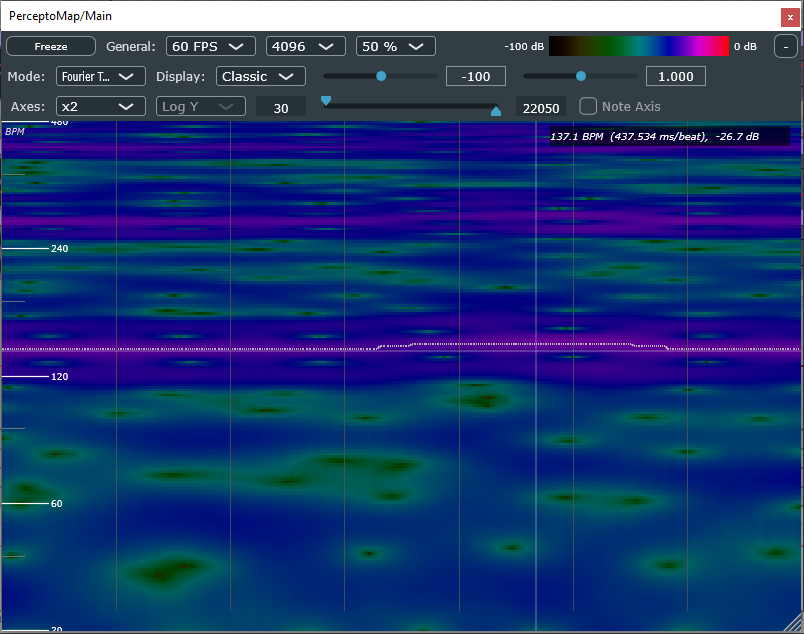
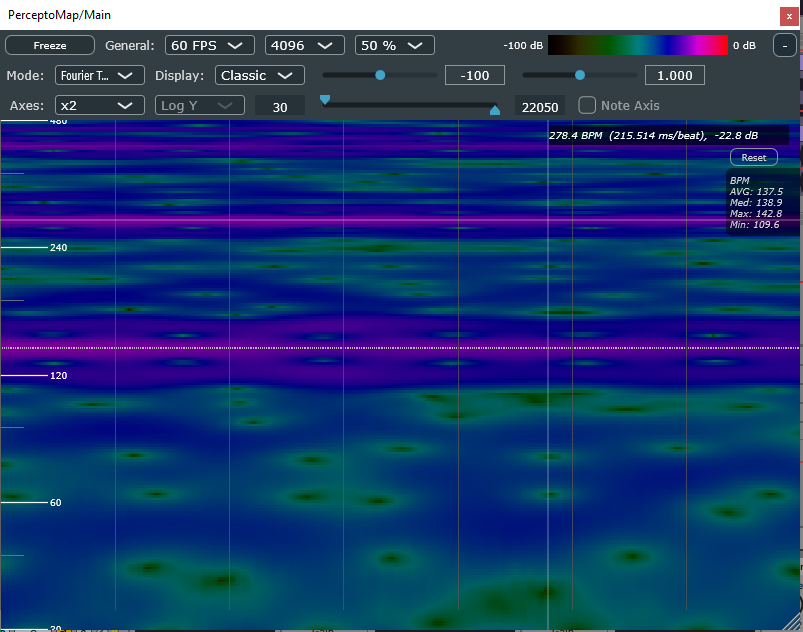
v0.11
1. Add BPM tempo statistics (average/median/max/min)

diff --git a/Source/SpectrogramComponent.cpp b/Source/SpectrogramComponent.cpp
@@ -992,49 +992,68 @@ void SpectrogramComponent::drawFourierTempogram(int x, std::vector<float>& dBCol
         fourierTempoLineColour = juce::Colour::fromRGB(255, 255, 255);   // white
         break;
     }
-    if (showFourierTempoLine && M >= 2)
+
+    int   mPeak = 0;
+    float bestVal = -1.0e30f;
+    float bestBPM = tempoBPM[0];
+
+    for (int m = 0; m < M; ++m)
     {
-        int   mPeak = 0;
-        float bestVal = -1.0e30f;
-        float bestBPM = tempoBPM[0];
-
-        for (int m = 0; m < M; ++m)
+        const float bpm = tempoBPM[m];
+        const float prior = fourierTempoPrior(bpm);
+        const float score = mag[m] * prior;
+        if (score > bestVal)
         {
-            const float bpm = tempoBPM[m];
-            const float prior = fourierTempoPrior(bpm);
-            const float score = mag[m] * prior;
-            if (score > bestVal)
-            {
-                bestVal = score;
-                mPeak = m;
-                bestBPM = bpm;
-            }
+            bestVal = score;
+            mPeak = m;
+            bestBPM = bpm;
         }
+    }
 
-        const int yTempo = (int)std::round(bpmToImageY(bestBPM, imageHeight));
-        if (yTempo >= 0 && yTempo < imageHeight)
+    const int yTempo = (int)std::round(bpmToImageY(bestBPM, imageHeight));
+    if (yTempo >= 0 && yTempo < imageHeight)
+    {
+        // draw on tempogram
+        juce::Graphics imgG(spectrogramImage);
+        imgG.setColour(fourierTempoLineColour.withAlpha(0.95f));
+
+        if (lastFourierTempoY >= 0)
         {
-            // draw on tempogram
-            juce::Graphics imgG(spectrogramImage);
-            imgG.setColour(fourierTempoLineColour.withAlpha(0.95f));
-
-            if (lastFourierTempoY >= 0)
-            {
-                imgG.drawLine((float)(x - 1), (float)lastFourierTempoY,
-                    (float)x, (float)yTempo,
-                    2.0f); // line width
-            }
-            else
-            {
-                // draw first point
-                imgG.fillRect(x, yTempo, 1, 1);
-            }
-            lastFourierTempoY = yTempo;
+            imgG.drawLine((float)(x - 1), (float)lastFourierTempoY,
+                (float)x, (float)yTempo,
+                2.0f); // line width
         }
         else
         {
-            lastFourierTempoY = -1;
+            // draw first point
+            imgG.fillRect(x, yTempo, 1, 1);
         }
+        lastFourierTempoY = yTempo;
+    }
+    else
+    {
+        lastFourierTempoY = -1;
+    }
+    
+    // BPM tempo statistics
+    if (bestBPM > 0.0f && std::isfinite(bestBPM))
+    {
+        // avg
+        tempoAvgSum += bestBPM;
+        tempoAvgCount += 1;
+        globalTempoBPM = (float)(tempoAvgSum / std::max(1, tempoAvgCount));
+
+        // min/max
+        tempoMin = std::min(tempoMin, bestBPM);
+        tempoMax = std::max(tempoMax, bestBPM);
+
+        // median
+        tempoHistory.push_back(bestBPM);
+        std::vector<float> tmp = tempoHistory;
+        std::sort(tmp.begin(), tmp.end());
+        const size_t n = tmp.size();
+        tempoMedian = (n % 2) ? tmp[n / 2]
+            : 0.5f * (tmp[n / 2 - 1] + tmp[n / 2]);
     }
 }
 
@@ -1346,11 +1365,24 @@ void SpectrogramComponent::paintTempoYAxis(juce::Graphics& g, int width, int ima
         g.drawFittedText(label, textArea, juce::Justification::left, 1);
     }
 
-    // Title "BPM"
+    // BPM tempo statistics
+    const int statsW = 140;
+    const int statsH = 60;
+    const int rightPad = 70;
+    const int topY = 52;
+    // background
+    juce::Rectangle<int> statsRect(getWidth() - rightPad, topY, statsW, statsH);
+    auto bg = statsRect.expanded(4);
+    g.setColour(juce::Colours::black.withAlpha(0.5f));
+    g.fillRoundedRectangle(bg.toFloat(), 6.0f);
+    // text
     g.setColour(juce::Colours::lightgrey);
     g.setFont(juce::Font(11.0f, juce::Font::italic));
-    juce::String title = "BPM";
-    g.drawFittedText(title, { x0 + 4, 2, width - 8, 16 }, juce::Justification::centredLeft, 1);
+    juce::String title = "BPM\nAVG: " + juce::String(globalTempoBPM, 1) + 
+        "\nMed: " + juce::String(tempoMedian, 1) +
+        "\nMax: " + juce::String(tempoMax, 1) +
+        "\nMin: " + juce::String(tempoMin, 1);
+    g.drawFittedText(title, statsRect, juce::Justification::left, 5);
 }
 
 juce::String SpectrogramComponent::drawMelTooltip(float dB, const int imgY, float freq)
@@ -1738,6 +1770,8 @@ void SpectrogramComponent::initFourierTempogram()
         haveLastMag = false;
     }
     lastFourierTempoY = -1;
+    // reset tempo statistics
+    resetTempoStats();
 }
 
 float SpectrogramComponent::fourierTempoPrior(float bpm) const
@@ -1747,6 +1781,17 @@ float SpectrogramComponent::fourierTempoPrior(float bpm) const
     const float sigma = juce::jmax(1e-3f, tempoPriorSigmaLog2);
     const float z = std::log2(juce::jmax(1e-6f, bpm / mu)) / sigma;
     return std::exp(-0.5f * z * z);
+}
+
+void SpectrogramComponent::resetTempoStats()
+{
+    tempoHistory.clear();
+    tempoAvgSum = 0.0;
+    tempoAvgCount = 0;
+    globalTempoBPM = 0.0f;
+    tempoMin = std::numeric_limits<float>::infinity();
+    tempoMax = 0.0f;
+    tempoMedian = 0.0f;
 }
 
 juce::Colour SpectrogramComponent::getColourForValue(float value)

diff --git a/Source/PluginEditor.cpp b/Source/PluginEditor.cpp
@@ -387,6 +387,21 @@ SpectrogramAudioProcessorEditor::SpectrogramAudioProcessorEditor(SpectrogramAudi
         spectrogram.setShowNoteCAxis(noteAxisToggle.getToggleState());
         repaint();
     };
+
+    // reset tempo avg button in Tempogram
+    addAndMakeVisible(tempoAvgResetBtn);
+    tempoAvgResetBtn.setTooltip("Reset average BPM");
+    tempoAvgResetBtn.setWantsKeyboardFocus(false);
+    tempoAvgResetBtn.onClick = [this] 
+    {
+        spectrogram.resetTempoStats();
+        //repaint();
+    };
+    tempoAvgResetBtn.setColour(juce::TextButton::buttonColourId, juce::Colours::transparentBlack);
+    tempoAvgResetBtn.setColour(juce::TextButton::textColourOnId, juce::Colours::lightgrey);
+    tempoAvgResetBtn.setColour(juce::TextButton::textColourOffId, juce::Colours::lightgrey);
+    tempoAvgResetBtn.setVisible(false);
+
 }
 
 void SpectrogramAudioProcessorEditor::MenuDisableControl(SpectrogramComponent::SpectrogramMode mode)
@@ -403,6 +418,7 @@ void SpectrogramAudioProcessorEditor::MenuDisableControl(SpectrogramComponent::S
             yMaxHzEdit.setEnabled(true);
             floorDbSlider.setEnabled(true);
             noteAxisToggle.setEnabled(true);
+            tempoAvgResetBtn.setVisible(false);
             break;
         }
         // MFCC
@@ -414,6 +430,7 @@ void SpectrogramAudioProcessorEditor::MenuDisableControl(SpectrogramComponent::S
             yMaxHzEdit.setEnabled(false);
             floorDbSlider.setEnabled(false);
             noteAxisToggle.setEnabled(false);
+            tempoAvgResetBtn.setVisible(false);
             break;
         }
         // Chroma
@@ -425,6 +442,7 @@ void SpectrogramAudioProcessorEditor::MenuDisableControl(SpectrogramComponent::S
             yMaxHzEdit.setEnabled(false);
             floorDbSlider.setEnabled(false);
             noteAxisToggle.setEnabled(false);
+            tempoAvgResetBtn.setVisible(false);
             break;
         }
         // Fourier Tempogram
@@ -436,6 +454,7 @@ void SpectrogramAudioProcessorEditor::MenuDisableControl(SpectrogramComponent::S
             yMaxHzEdit.setEnabled(false);
             floorDbSlider.setEnabled(true);
             noteAxisToggle.setEnabled(false);
+            tempoAvgResetBtn.setVisible(true);
             // auto switch FFT size to >=4096 for better tempogram results
             const int curOrder = fftSizeBox.getSelectedId();
             if (curOrder < 12)  // 2^12=4096
@@ -450,6 +469,7 @@ void SpectrogramAudioProcessorEditor::MenuDisableControl(SpectrogramComponent::S
             yMaxHzEdit.setEnabled(true);
             floorDbSlider.setEnabled(true);
             noteAxisToggle.setEnabled(true);
+            tempoAvgResetBtn.setVisible(false);
             break;
     }
 }
@@ -625,4 +645,10 @@ void SpectrogramAudioProcessorEditor::resized()
 
     // rest: spectrogram
     spectrogram.setBounds(area);
+
+    // reset tempo avg button in Tempogram
+    auto spec = spectrogram.getBounds();
+    const int resTempoBtnHeight = 18;
+    const int resTempoBtnWidth = 48;
+    tempoAvgResetBtn.setBounds(spec.getRight() - 70, spec.getY() + 28, resTempoBtnWidth, resTempoBtnHeight);
 }

diff --git a/Source/SpectrogramComponent.h b/Source/SpectrogramComponent.h
@@ -94,6 +94,9 @@ public:
     void setShowNoteCAxis(bool shouldShow);
     bool getShowNoteCAxis() const {return showNoteCAxis;}
 
+    // Tempo statistics
+    void resetTempoStats();
+
 private:
     juce::Image spectrogramImage;
 
@@ -253,12 +256,19 @@ private:
     // init helper
     void initFourierTempogram();
     // Tempo line (Fourier) overlay
-    bool showFourierTempoLine = true;
     float tempoPriorStartBPM = 120.0f;
     float tempoPriorSigmaLog2 = 0.5f;
     int lastFourierTempoY = -1;
     float bpmToImageY(float bpm, int imageHeight) const;
     float fourierTempoPrior(float bpm) const;
+    // Tempo statistics
+    std::vector<float> tempoHistory;
+    double tempoAvgSum = 0.0;
+    int tempoAvgCount = 0;
+    float globalTempoBPM = 0.0f;
+    float tempoMin = std::numeric_limits<float>::infinity();
+    float tempoMax = 0.0f;
+    float tempoMedian = 0.0f;
     
 };
 

diff --git a/Source/PluginEditor.h b/Source/PluginEditor.h
@@ -101,6 +101,9 @@ private:
     // y axis (note)
     juce::ToggleButton noteAxisToggle;
 
+    // reset tempo avg button in Tempogram
+    juce::TextButton tempoAvgResetBtn{"Reset"};
+
     // row labels
     float labelAlpha = 0.8f;
     juce::Label row1stLabel;